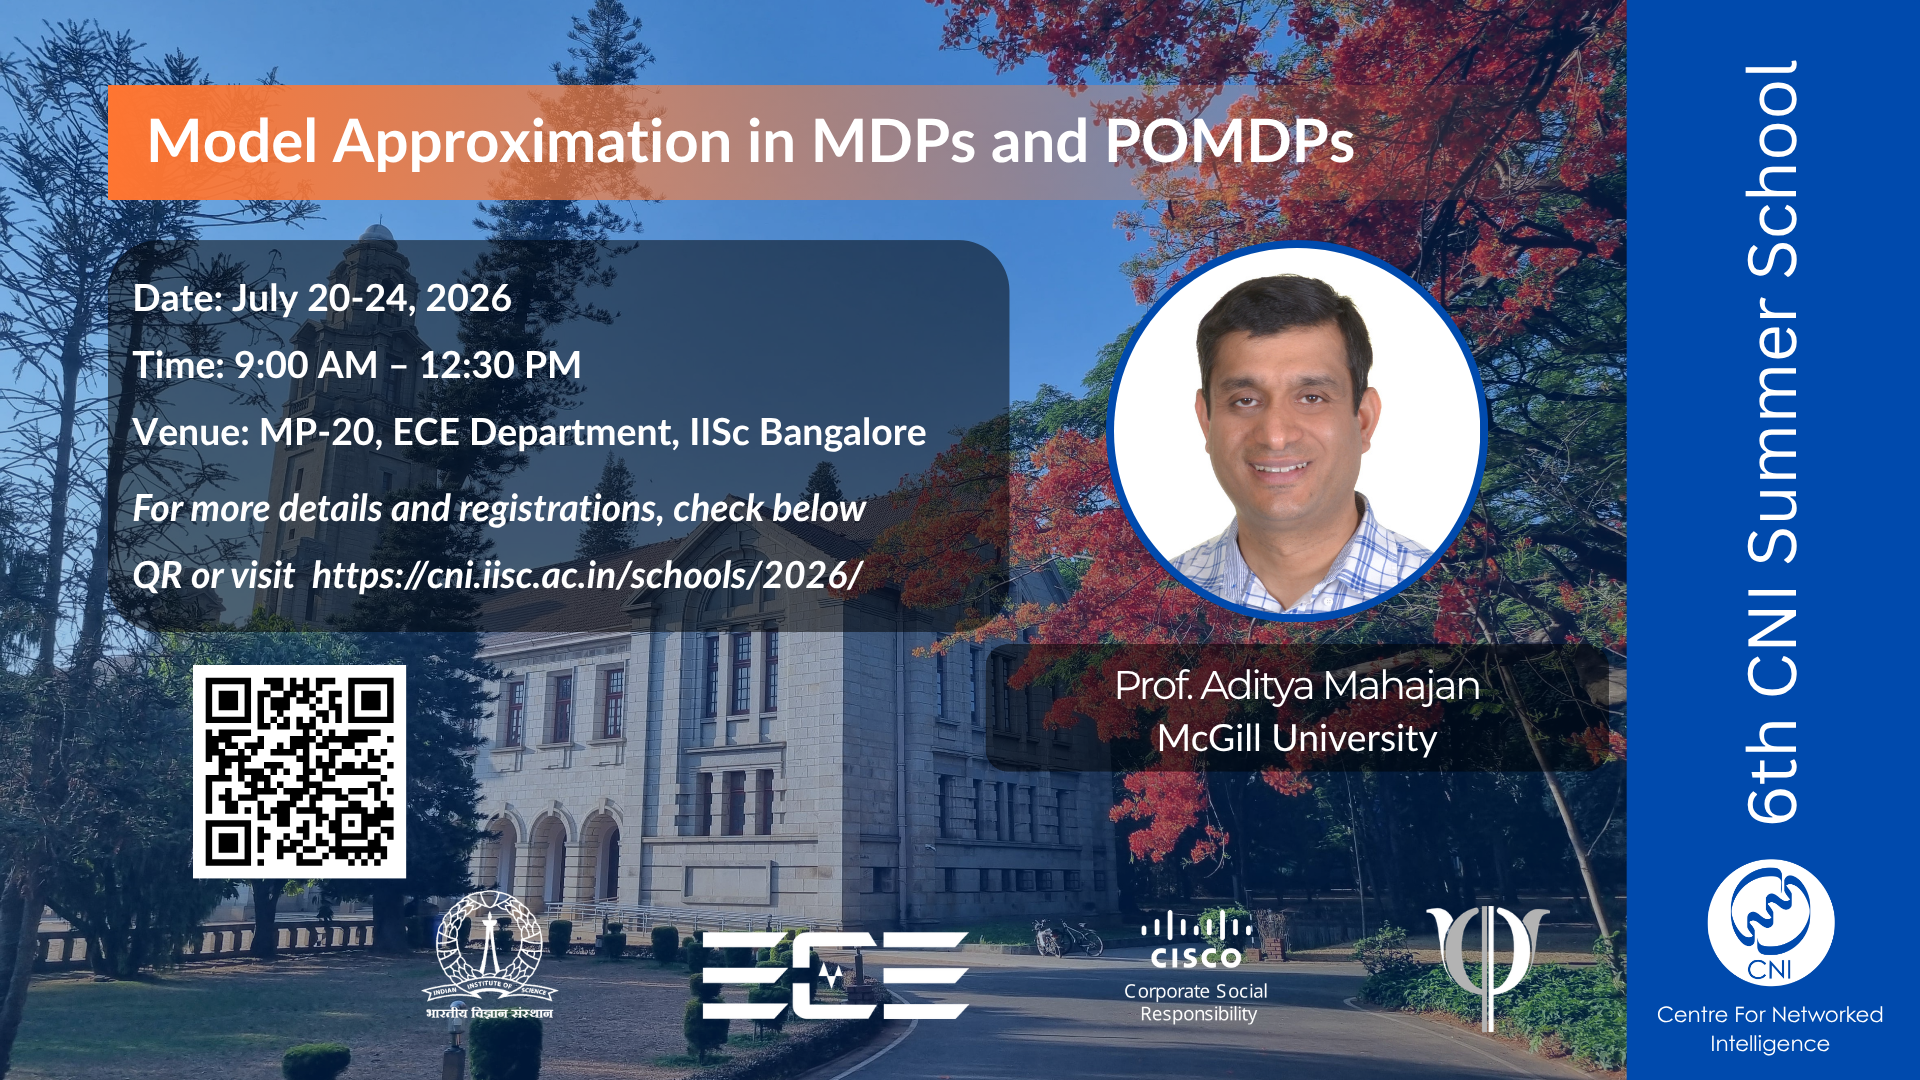
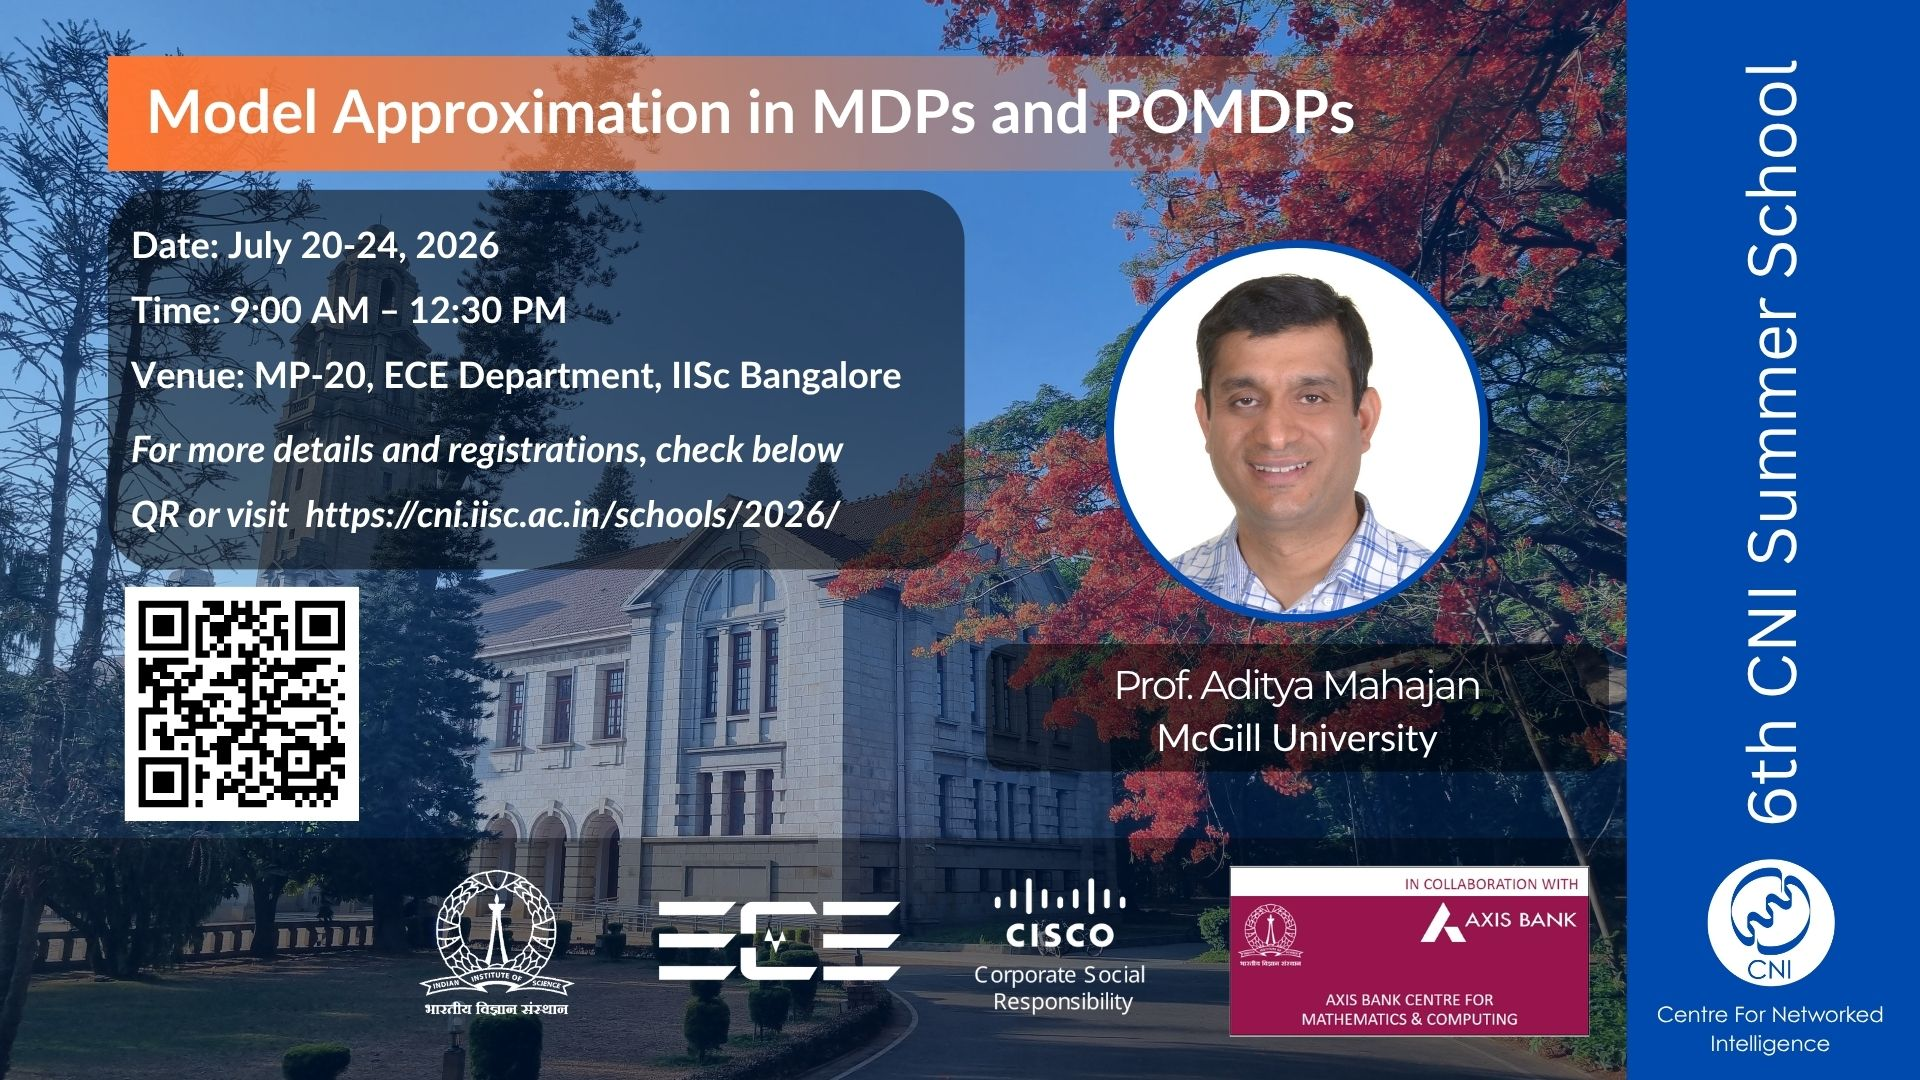
deploy: c00b64a7e03ccae530c1230aab4c828762b599aa

diff --git a/schools/2026/index.html b/schools/2026/index.html
@@ -93,4 +93,4 @@
                         themeIcon.classList.add("bi-sun");
                     }
                 }
-            }</script></head><body><nav class="navbar navbar-expand-lg custom-navbar"><div class="container-fluid"><a class="navbar-brand" href="/"><img src="/assets/images/cni_logo.png" alt="CNI logo" style="height: 60px"> </a><button class="navbar-toggler" type="button" data-bs-toggle="collapse" data-bs-target="#navbarText" aria-controls="navbarText" aria-expanded="false" aria-label="Toggle navigation"><span class="navbar-toggler-icon"></span></button><div class="collapse navbar-collapse justify-content-end" id="navbarText"><ul class="navbar-nav"><li class="nav-item dropdown"><a class="nav-link dropdown-toggle" href="#" role="button" data-bs-toggle="dropdown" aria-expanded="false" aria-haspopup="true" onmouseover="this.style.color='var(--hyperlink-clr)';" onmouseout="this.style.color='#ffffff';">People</a><ul class="dropdown-menu"><li><a class="dropdown-item" href="/faculty/">Faculty</a></li><li><a class="dropdown-item" href="/staff/">Staff</a></li><li><a class="dropdown-item" href="/phd-fellows/">PhD Fellows</a></li><li><a class="dropdown-item" href="/mtech-fellows/">MTech Fellows</a></li><li><a class="dropdown-item" href="/visitors/">Visitors</a></li></ul></li><li class="nav-item dropdown"><a class="nav-link dropdown-toggle" href="#" role="button" data-bs-toggle="dropdown" aria-expanded="false" aria-haspopup="true" onmouseover="this.style.color='var(--hyperlink-clr)';" onmouseout="this.style.color='#ffffff';">Research</a><ul class="dropdown-menu"><li><a class="dropdown-item" href="/projects/">Projects</a></li><li><a class="dropdown-item" href="/publications/">Publications</a></li><li><a class="dropdown-item" href="/highlights/">Highlights</a></li></ul></li><li class="nav-item dropdown"><a class="nav-link dropdown-toggle" href="#" role="button" data-bs-toggle="dropdown" aria-expanded="false" aria-haspopup="true" onmouseover="this.style.color='var(--hyperlink-clr)';" onmouseout="this.style.color='#ffffff';">Outreach</a><ul class="dropdown-menu"><li><a class="dropdown-item" href="/seminars/">Seminars</a></li><li><a class="dropdown-item" href="/newsletter/latest/">Newsletters</a></li><li><a class="dropdown-item" href="/courses/">Courses</a></li><li><a class="dropdown-item" href="/schools/">Summer School</a></li><li><a class="dropdown-item" href="/news/">CNI in News</a></li><li><a class="dropdown-item" href="/hackathons">Hackathons</a></li><li><a class="dropdown-item" href="/workshops/">Workshops</a></li></ul></li><li class="nav-item"><a class="nav-link" href="/opportunities/">Opportunities</a></li><li class="nav-item"><button class="theme-toggle" onclick="toggleTheme()"><i id="theme-icon" class="bi bi-sun"></i></button></li></ul></div></div></nav><div class="container mt-2 mb-2 text-center"><h2>CNI Summer School 2026</h2></div><div class="mx-auto" style="max-width: 800px;"><article class="container mt-2 mb-2"><h3 align="center">Model approximation in MDPs and POMDPs</h3><center><img src="/assets/img/schools/2026/SummerSchool2026Poster.png" class="img-fluid"></center><p>The Centre for Networked Intelligence (CNI) at IISc Bengaluru is pleased to announce the 6th CNI Summer School 2026.</p><div style="text-align:justify">This summer school will focus on model approximation techniques in Markov Decision Processes (MDPs) and Partially Observable Markov Decision Processes (POMDPs). The course will introduce fundamental concepts in stochastic systems and optimization, followed by a structured treatment of decision-making under uncertainty using MDPs and POMDPs. It will further explore approximation methods, sub-optimality bounds, and their connections to reinforcement learning. The program is designed for students, researchers, and practitioners interested in stochastic control, optimization, and learning in uncertain environments.</div><hr><p><strong>Instructor:</strong> <a href="http://adityam.github.io" target="_blank">Professor Aditya Mahajan</a>, ECE, McGill University</p><hr><h2>Details</h2><p><strong>Dates:</strong> July 20–24, 2026<br><strong>Time:</strong> 9:00 AM – 12:30 PM<br><strong>Schedule:</strong></p><ul><li>09:00 AM – 10:30 AM | Lecture Session 1</li><li>10:30 AM – 11:00 AM | Break</li><li>11:00 AM – 12:30 PM | Lecture Session 2</li></ul><p><strong>Mode:</strong> Offline<br><strong>Venue:</strong> Auditorium 1, MP 20, MP Building, ECE Department, Indian Institute of Science Campus</p><p><strong>Location:</strong></p><div class="container"><div class="ratio ratio-16x9" style="max-width: 400px;"><iframe class="embed-responsive-item" src="https://www.google.com/maps/embed?pb=!1m14!1m8!1m3!1d15548.793557070037!2d77.5655018!3d13.0230349!3m2!1i1024!2i768!4f13.1!3m3!1m2!1s0x3bae17d9d00a4261%3A0xbd07f52c2cd8c898!2sMicroelectronics%20And%20Photonics%20Lab!5e0!3m2!1sen!2sin!4v1688637326173!5m2!1sen!2sin" style="border:0;" allowfullscreen="" loading="lazy" referrerpolicy="no-referrer-when-downgrade"></iframe></div></div><hr><h2>📘 Course Outline</h2><h3>Day 1</h3><ul><li>Examples of stochastic systems</li><li>Modeling of stochastic systems<ul><li>Input-output models</li><li>State space models</li></ul></li><li>Stochastic optimization</li><li>Newsvendor problem</li><li>Selling random wind</li></ul><hr><h3>Day 2</h3><ul><li>Markov Decision Problems (MDPs)</li><li>Principle of irrelevant information</li><li>Principle of optimality and dynamic programming decomposition</li><li>Bellman operators and their properties</li><li>Examples:<ul><li>Optimal gambling</li><li>Optimal repair</li><li>Inventory management</li></ul></li></ul><hr><h3>Day 3</h3><ul><li>Partially Observable Markov Decision Processes (POMDPs)</li><li>Information state and dynamic programming decomposition</li><li>Belief state and properties of value function</li><li>Examples:<ul><li>Sequential hypothesis testing</li><li>Remote estimation</li></ul></li></ul><hr><h3>Day 4</h3><ul><li>Model approximation in MDPs</li><li>Mismatch Bellman operator</li><li>Sample path-based sub-optimality bounds</li><li>Sup-norm and weighted sup-norm sub-optimality bounds</li><li>Integral Probability Metrics (IPMs) and their properties</li><li>IPM-based approximation bounds</li></ul><hr><h3>Day 5</h3><ul><li>Model approximation in POMDPs</li><li>Approximate information state</li><li>Generalized certainty equivalence</li><li>From sub-optimality bounds to reinforcement learning</li></ul><hr><h2>📌 Important Dates</h2><ul><li><strong>Registration Opens:</strong> 22 April 2026</li><li><strong>Registration Deadline:</strong> 15 June 2026</li><li><strong>Notification of Selection:</strong> To be announced</li></ul><hr><h2>🔗 Registration</h2><p><a style="text-align:center" href="https://forms.gle/zkrMX7psB4ktTads6" class="btn btn-primary btn-lg active hoverable" role="button" aria-pressed="true">Register Here!</a></p><hr><h2>📧 Contact</h2><p>You can email us at <strong>outreach.cni@iisc.ac.in</strong> with the following subject: “CNI summer school-2026” in case of difficulties in the registration or for any other query.</p><hr><h2>❓ FAQ</h2><p><strong>1. Is there a registration fee?</strong></p><ul><li>No, there is no registration fee for the summer school.</li></ul><p><strong>2. Will certificates be provided?</strong></p><ul><li>Yes, participation certificates will be provided to those who attend all sessions.</li></ul><p><strong>3. Will TA/DA be provided?</strong></p><ul><li>No, TA/DA will not be provided.</li></ul><p><strong>4. Where can I have meals?</strong></p><ul><li>There are several cafeterias/restaurants available on the IISc campus.</li></ul><p><strong>5. Will accommodation be provided?</strong></p><ul><li>No, participants must arrange their own accommodation.</li></ul></article></div><footer class="site-footer"><div class="footer-container"><a href="mailto:contact.cni@iisc.ac.in" title="Email" target="_blank"><i class="fa-solid fa-envelope"></i> </a><a href="https://github.com/cni-iisc" title="GitHub" target="_blank"><i class="fa-brands fa-github"></i> </a><a href="https://x.com/cni_iisc" title="X" target="_blank"><i class="fa-brands fa-x-twitter"></i> </a><a href="https://www.linkedin.com/company/cni-iisc" title="LinkedIn" target="_blank"><i class="fa-brands fa-linkedin"></i> </a><a href="https://www.youtube.com/@centrefornetworkedintellig5324" title="YouTube" target="_blank"><i class="fa-brands fa-youtube"></i> </a><a href="https://www.instagram.com/cni_iisc/" title="Instagram" target="_blank"><i class="fa-brands fa-instagram"></i></a><p>© 2026 Centre for Networked Intelligence. All rights reserved.</p><p>Last updated: July 8, 2026</p></div></footer></body></html>
+            }</script></head><body><nav class="navbar navbar-expand-lg custom-navbar"><div class="container-fluid"><a class="navbar-brand" href="/"><img src="/assets/images/cni_logo.png" alt="CNI logo" style="height: 60px"> </a><button class="navbar-toggler" type="button" data-bs-toggle="collapse" data-bs-target="#navbarText" aria-controls="navbarText" aria-expanded="false" aria-label="Toggle navigation"><span class="navbar-toggler-icon"></span></button><div class="collapse navbar-collapse justify-content-end" id="navbarText"><ul class="navbar-nav"><li class="nav-item dropdown"><a class="nav-link dropdown-toggle" href="#" role="button" data-bs-toggle="dropdown" aria-expanded="false" aria-haspopup="true" onmouseover="this.style.color='var(--hyperlink-clr)';" onmouseout="this.style.color='#ffffff';">People</a><ul class="dropdown-menu"><li><a class="dropdown-item" href="/faculty/">Faculty</a></li><li><a class="dropdown-item" href="/staff/">Staff</a></li><li><a class="dropdown-item" href="/phd-fellows/">PhD Fellows</a></li><li><a class="dropdown-item" href="/mtech-fellows/">MTech Fellows</a></li><li><a class="dropdown-item" href="/visitors/">Visitors</a></li></ul></li><li class="nav-item dropdown"><a class="nav-link dropdown-toggle" href="#" role="button" data-bs-toggle="dropdown" aria-expanded="false" aria-haspopup="true" onmouseover="this.style.color='var(--hyperlink-clr)';" onmouseout="this.style.color='#ffffff';">Research</a><ul class="dropdown-menu"><li><a class="dropdown-item" href="/projects/">Projects</a></li><li><a class="dropdown-item" href="/publications/">Publications</a></li><li><a class="dropdown-item" href="/highlights/">Highlights</a></li></ul></li><li class="nav-item dropdown"><a class="nav-link dropdown-toggle" href="#" role="button" data-bs-toggle="dropdown" aria-expanded="false" aria-haspopup="true" onmouseover="this.style.color='var(--hyperlink-clr)';" onmouseout="this.style.color='#ffffff';">Outreach</a><ul class="dropdown-menu"><li><a class="dropdown-item" href="/seminars/">Seminars</a></li><li><a class="dropdown-item" href="/newsletter/latest/">Newsletters</a></li><li><a class="dropdown-item" href="/courses/">Courses</a></li><li><a class="dropdown-item" href="/schools/">Summer School</a></li><li><a class="dropdown-item" href="/news/">CNI in News</a></li><li><a class="dropdown-item" href="/hackathons">Hackathons</a></li><li><a class="dropdown-item" href="/workshops/">Workshops</a></li></ul></li><li class="nav-item"><a class="nav-link" href="/opportunities/">Opportunities</a></li><li class="nav-item"><button class="theme-toggle" onclick="toggleTheme()"><i id="theme-icon" class="bi bi-sun"></i></button></li></ul></div></div></nav><div class="container mt-2 mb-2 text-center"><h2>CNI Summer School 2026</h2></div><div class="mx-auto" style="max-width: 800px;"><article class="container mt-2 mb-2"><h3 align="center">Model approximation in MDPs and POMDPs</h3><center><img src="/assets/img/schools/2026/SummerSchool2026Poster.png" class="img-fluid"></center><p>The Centre for Networked Intelligence (CNI) at IISc Bengaluru is pleased to announce the 6th CNI Summer School 2026.</p><div style="text-align:justify">This summer school will focus on model approximation techniques in Markov Decision Processes (MDPs) and Partially Observable Markov Decision Processes (POMDPs). The course will introduce fundamental concepts in stochastic systems and optimization, followed by a structured treatment of decision-making under uncertainty using MDPs and POMDPs. It will further explore approximation methods, sub-optimality bounds, and their connections to reinforcement learning. The program is designed for students, researchers, and practitioners interested in stochastic control, optimization, and learning in uncertain environments.</div><hr><p><strong>Instructor:</strong> <a href="http://adityam.github.io" target="_blank">Professor Aditya Mahajan</a>, ECE, McGill University</p><hr><h2>Details</h2><p><strong>Dates:</strong> July 20–24, 2026<br><strong>Time:</strong> 9:00 AM – 12:30 PM<br><strong>Schedule:</strong></p><ul><li>09:00 AM – 10:30 AM | Lecture Session 1</li><li>10:30 AM – 11:00 AM | Break</li><li>11:00 AM – 12:30 PM | Lecture Session 2</li></ul><p><strong>Mode:</strong> Offline<br><strong>Venue:</strong> Auditorium 1, MP 20, MP Building, ECE Department, Indian Institute of Science Campus</p><p><strong>Location:</strong></p><div class="container"><div class="ratio ratio-16x9" style="max-width: 400px;"><iframe class="embed-responsive-item" src="https://www.google.com/maps/embed?pb=!1m14!1m8!1m3!1d15548.793557070037!2d77.5655018!3d13.0230349!3m2!1i1024!2i768!4f13.1!3m3!1m2!1s0x3bae17d9d00a4261%3A0xbd07f52c2cd8c898!2sMicroelectronics%20And%20Photonics%20Lab!5e0!3m2!1sen!2sin!4v1688637326173!5m2!1sen!2sin" style="border:0;" allowfullscreen="" loading="lazy" referrerpolicy="no-referrer-when-downgrade"></iframe></div></div><hr><h2>📘 Course Outline</h2><h3>Day 1</h3><ul><li>Examples of stochastic systems</li><li>Modeling of stochastic systems<ul><li>Input-output models</li><li>State space models</li></ul></li><li>Stochastic optimization</li><li>Newsvendor problem</li><li>Selling random wind</li></ul><hr><h3>Day 2</h3><ul><li>Markov Decision Problems (MDPs)</li><li>Principle of irrelevant information</li><li>Principle of optimality and dynamic programming decomposition</li><li>Bellman operators and their properties</li><li>Examples:<ul><li>Optimal gambling</li><li>Optimal repair</li><li>Inventory management</li></ul></li></ul><hr><h3>Day 3</h3><ul><li>Partially Observable Markov Decision Processes (POMDPs)</li><li>Information state and dynamic programming decomposition</li><li>Belief state and properties of value function</li><li>Examples:<ul><li>Sequential hypothesis testing</li><li>Remote estimation</li></ul></li></ul><hr><h3>Day 4</h3><ul><li>Model approximation in MDPs</li><li>Mismatch Bellman operator</li><li>Sample path-based sub-optimality bounds</li><li>Sup-norm and weighted sup-norm sub-optimality bounds</li><li>Integral Probability Metrics (IPMs) and their properties</li><li>IPM-based approximation bounds</li></ul><hr><h3>Day 5</h3><ul><li>Model approximation in POMDPs</li><li>Approximate information state</li><li>Generalized certainty equivalence</li><li>From sub-optimality bounds to reinforcement learning</li></ul><hr><h2>📌 Important Dates</h2><ul><li><strong>Registration Opens:</strong> 22 April 2026</li><li><strong>Registration Deadline:</strong> 15 June 2026</li><li><strong>Notification of Selection:</strong> To be announced</li></ul><hr><h2>🔗 Registration</h2><p><a style="text-align:center" href="https://forms.gle/zkrMX7psB4ktTads6" class="btn btn-primary btn-lg active hoverable" role="button" aria-pressed="true">Register Here!</a></p><hr><h2>📧 Contact</h2><p>You can email us at <strong>outreach.cni@iisc.ac.in</strong> with the following subject: “CNI summer school-2026” in case of difficulties in the registration or for any other query.</p><hr><h2>❓ FAQ</h2><p><strong>1. Is there a registration fee?</strong></p><ul><li>No, there is no registration fee for the summer school.</li></ul><p><strong>2. Will certificates be provided?</strong></p><ul><li>Yes, participation certificates will be provided to those who attend all sessions.</li></ul><p><strong>3. Will TA/DA be provided?</strong></p><ul><li>No, TA/DA will not be provided.</li></ul><p><strong>4. Where can I have meals?</strong></p><ul><li>There are several cafeterias/restaurants available on the IISc campus.</li></ul><p><strong>5. Will accommodation be provided?</strong></p><ul><li>No, participants must arrange their own accommodation.</li></ul><hr><h4>Sponsored by</h4><div class="container-fluid" align="center"><img src="/assets/img/Logos/CiscoLogo-Black-TransparentBg.png" alt="Cisco CSR logo" class="img-fluid" style="height: 160px; object-fit: contain;"> <img src="/assets/img/Logos/Axis-Bank.png" alt="Axis Bank logo" class="img-fluid" style="height: 130px; object-fit: contain;"></div><h4>Supported by</h4><div class="container-fluid" align="center"><img class="img-fluid" src="/assets/img/workshops/2026/IISc_Master_Seal_Transparent.png" style="height: 170px;"> <img class="img-fluid" src="/assets/img/workshops/2026/ECE LOGO svg.png" style="height: 100px;"> <img class="img-fluid" src="/assets/img/Logos/cropped-BCCPS-Logo.png" style="height: 120px;"></div></article></div><footer class="site-footer"><div class="footer-container"><a href="mailto:contact.cni@iisc.ac.in" title="Email" target="_blank"><i class="fa-solid fa-envelope"></i> </a><a href="https://github.com/cni-iisc" title="GitHub" target="_blank"><i class="fa-brands fa-github"></i> </a><a href="https://x.com/cni_iisc" title="X" target="_blank"><i class="fa-brands fa-x-twitter"></i> </a><a href="https://www.linkedin.com/company/cni-iisc" title="LinkedIn" target="_blank"><i class="fa-brands fa-linkedin"></i> </a><a href="https://www.youtube.com/@centrefornetworkedintellig5324" title="YouTube" target="_blank"><i class="fa-brands fa-youtube"></i> </a><a href="https://www.instagram.com/cni_iisc/" title="Instagram" target="_blank"><i class="fa-brands fa-instagram"></i></a><p>© 2026 Centre for Networked Intelligence. All rights reserved.</p><p>Last updated: July 8, 2026</p></div></footer></body></html>
